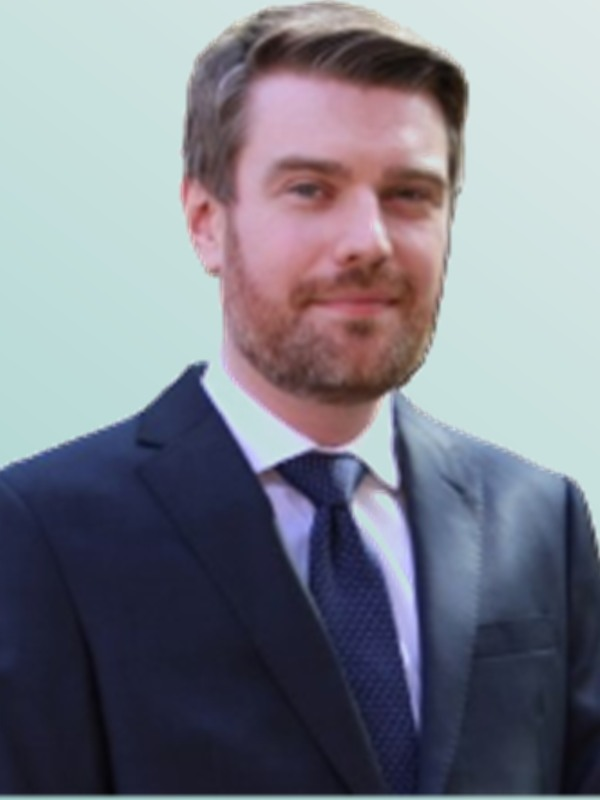
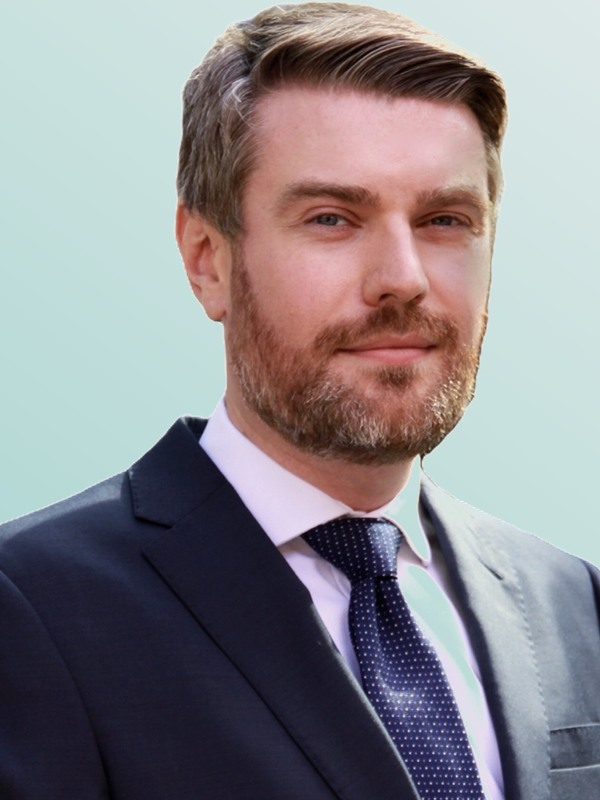
Replace team role labels with specialism tags and update photos
- Swap role text for outlined tag pills per team member
- Update Cal's photo to IMG_6694 (sharper)
- Reframe Jano and Samuel photos for better alignment

diff --git a/index.html b/index.html
@@ -521,14 +521,20 @@
       letter-spacing: -0.02em;
     }
 
-    .team-role {
-      font-family: var(--font-head);
-      font-size: 11px;
-      font-weight: 600;
-      letter-spacing: 0.10em;
-      text-transform: uppercase;
-      color: var(--teal);
+    .team-tags {
+      display: flex;
+      flex-wrap: wrap;
+      gap: 5px;
+      margin-top: 6px;
       margin-bottom: 12px;
+    }
+    .team-tag {
+      font-family: var(--font-mono);
+      font-size: 10px;
+      letter-spacing: 0.04em;
+      color: var(--ink-mid);
+      border: 1px solid rgba(26,26,26,0.22);
+      padding: 3px 8px;
     }
 
     /* ── SPECIALISMS ───────────────────────────────────────────── */
@@ -1048,7 +1054,11 @@
             </div>
           </div>
           <div class="team-name">Jano Bermudes</div>
-          <div class="team-role">Cyber &amp; Technology Risk</div>
+          <div class="team-tags">
+            <span class="team-tag">Technology Risk</span>
+            <span class="team-tag">Critical Infrastructure</span>
+            <span class="team-tag">Security Architecture</span>
+          </div>
         </div>
 
         <div class="team-card fade-in">
@@ -1062,7 +1072,11 @@
             </div>
           </div>
           <div class="team-name">Cal McGuire</div>
-          <div class="team-role">Digital Risk &amp; Resilience</div>
+          <div class="team-tags">
+            <span class="team-tag">Risk Quantification</span>
+            <span class="team-tag">Risk Transfer</span>
+            <span class="team-tag">M&amp;A</span>
+          </div>
         </div>
 
         <div class="team-card fade-in">
@@ -1076,7 +1090,11 @@
             </div>
           </div>
           <div class="team-name">Freddie Witzmann</div>
-          <div class="team-role">Operational Resilience</div>
+          <div class="team-tags">
+            <span class="team-tag">Operational Resilience</span>
+            <span class="team-tag">Crisis Simulation</span>
+            <span class="team-tag">Regulatory Compliance</span>
+          </div>
         </div>
 
         <div class="team-card fade-in">
@@ -1090,7 +1108,11 @@
             </div>
           </div>
           <div class="team-name">Samuel Kudláč</div>
-          <div class="team-role">Cyber Threat Intelligence</div>
+          <div class="team-tags">
+            <span class="team-tag">Threat Research</span>
+            <span class="team-tag">Geopolitics</span>
+            <span class="team-tag">Strategic Intelligence</span>
+          </div>
         </div>
 
       </div>
